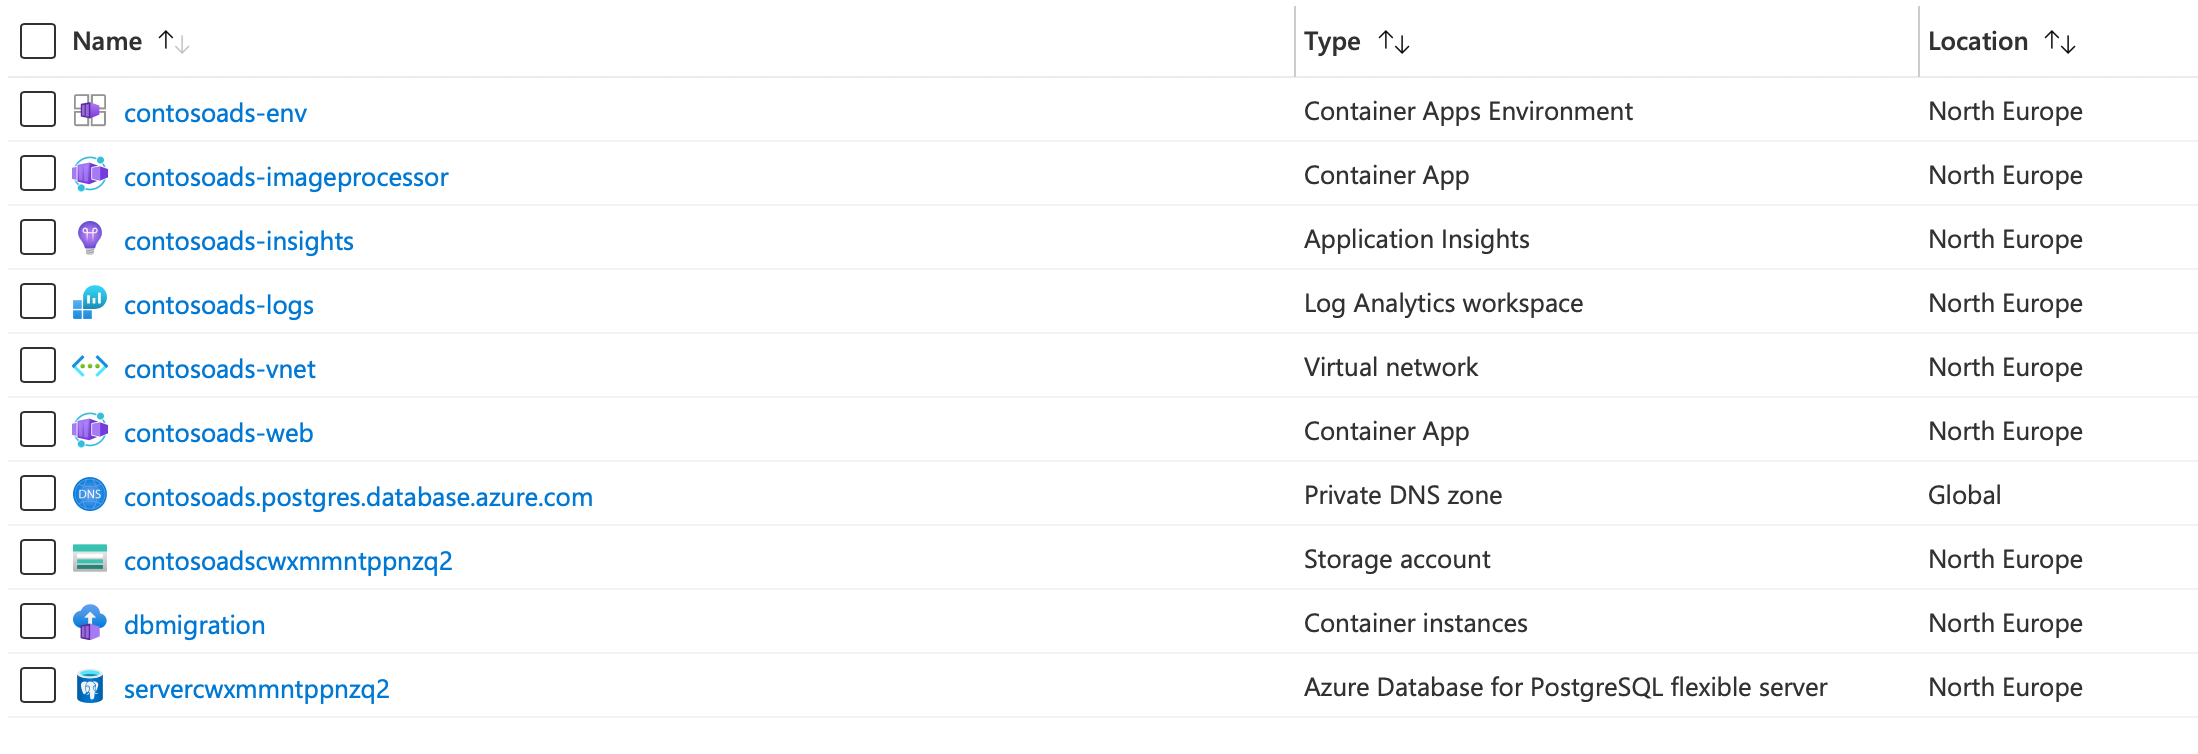
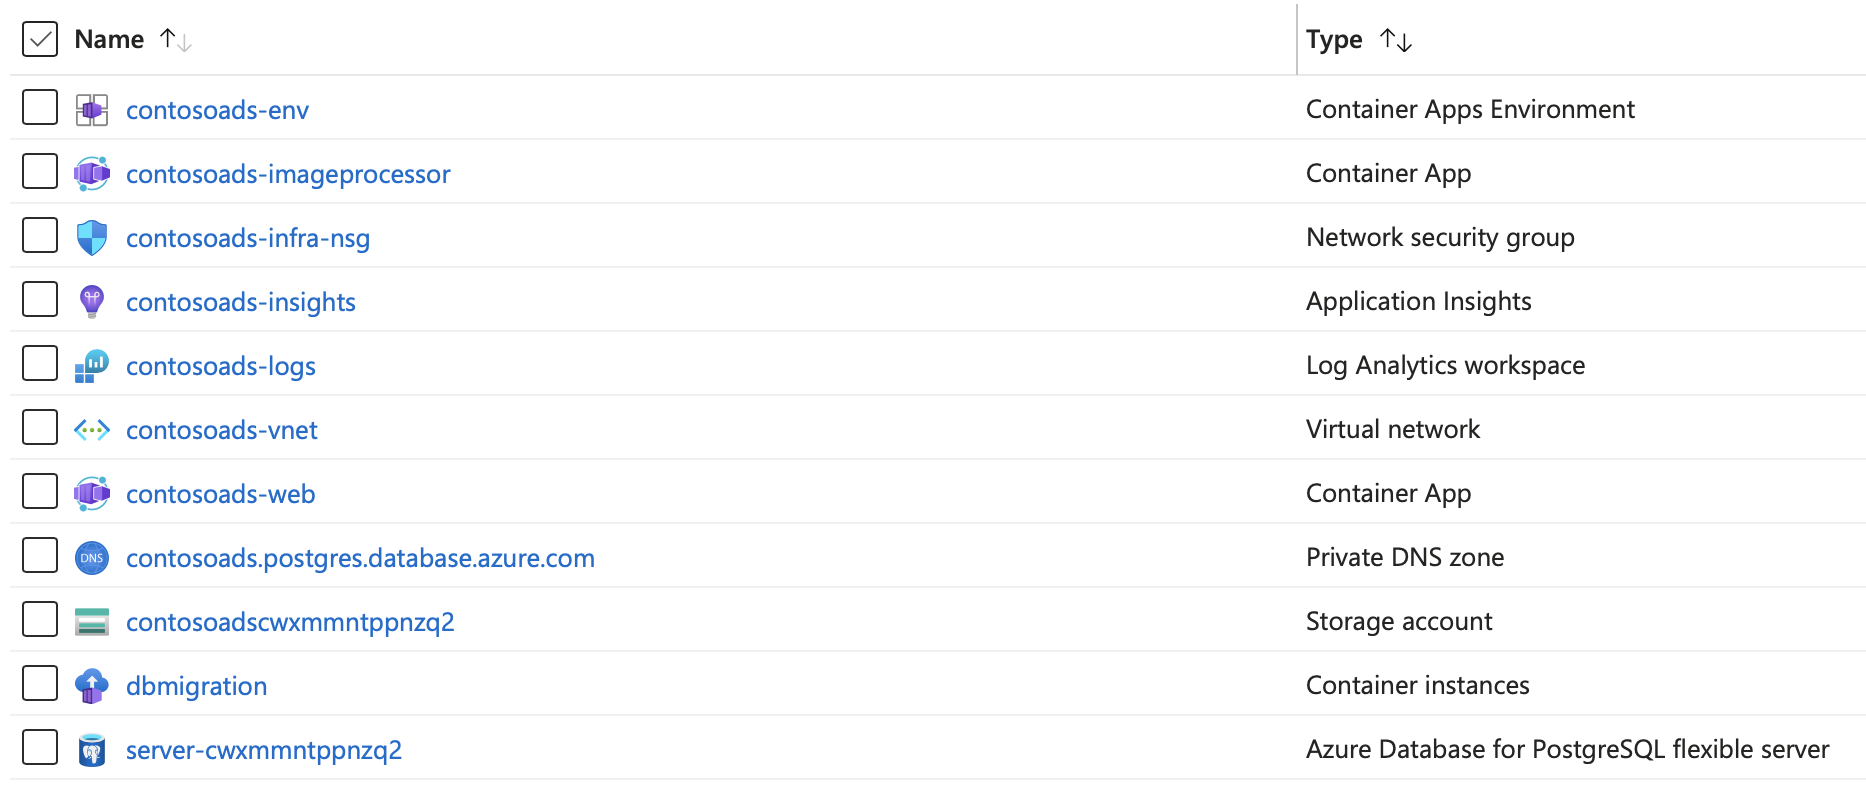
Update README and screenshots

diff --git a/README.md b/README.md
@@ -159,7 +159,7 @@ app is running in the cloud environment.
 | contosoads-vnet                        | Virtual network                                    | The Container Apps environment, the PostgreSQL server, and the Container Instance are all connected through this network using different subnets. |
 | contosoads.postgres.database.azure.com | Azure Private DNS zone                             | Provides name resolution for our private hosted PostgreSQL server.                                                                               |
 | contodoads<random_string>              | Azure storage account                              | Provides both the blob storage and the storage queues.                                                                                           |
-| server<random_string>                  | Azure Database for PostgreSQL Flexible Server      | Hosts the application's database and ASP.NET Core data protection keys.                                                                          |                                                                    |
+| server-<random_string>                 | Azure Database for PostgreSQL Flexible Server      | Hosts the application's database and ASP.NET Core data protection keys.                                                                          |                                                                    |
 | dbmigration                            | Azure Container Instance                           | This runs the database migration script to prepare the database during deployment.                                                               |                                                                    |
 
 The resources are shown here in the Azure portal:
@@ -182,8 +182,8 @@ After creating an ad, the web app will navigate back to the list view. No thumbn
 
 ![Creating a new ad.](docs/media/image-queued.png)
 
-After a few seconds, refresh the page in the web browser. The image processor has created
-the thumbnail and it is displayed.
+After a few seconds, once the image processor has created the the thumbnail, the web
+page will refresh itself display and the thumbnail.
 
 ![Creating a new ad.](docs/media/image-processed.png)
 
@@ -192,9 +192,10 @@ the thumbnail and it is displayed.
 These steps are optional and not required to deploy the application to Azure. Use them to learn 
 about building and running the application on your local machine and alternate deployment techniques.
 
-### Building and running the sample app on your PC or Mac with your favorite IDE or just the .NET SDK
+### Building and running the sample app on your PC or Mac with using the .NET SDK and Dapr
 
-See [this document](docs/build-and-run.md) for instructions on how to build and run the sample app on your PC or Mac. 
+See [this document](docs/build-and-run.md) for instructions on how to build and run the sample app on your PC or Mac
+if you have the .NET SDK and Dapr locally installed. 
 
 ### Running the sample app on your PC or Mac using Docker Desktop
 
